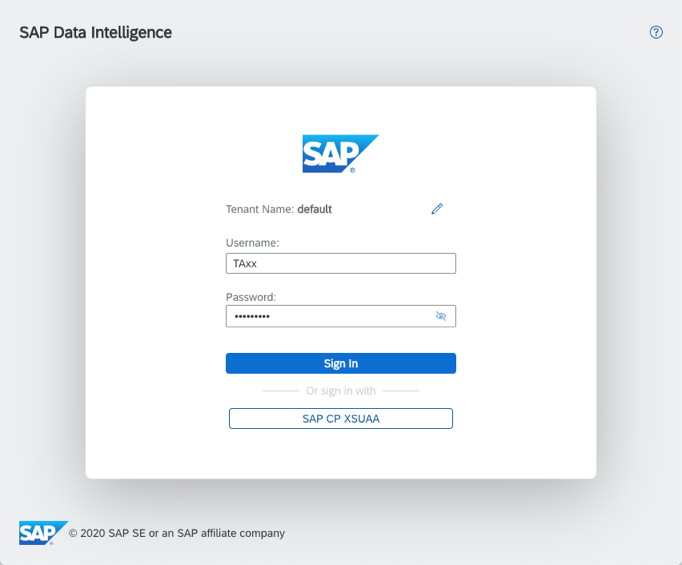
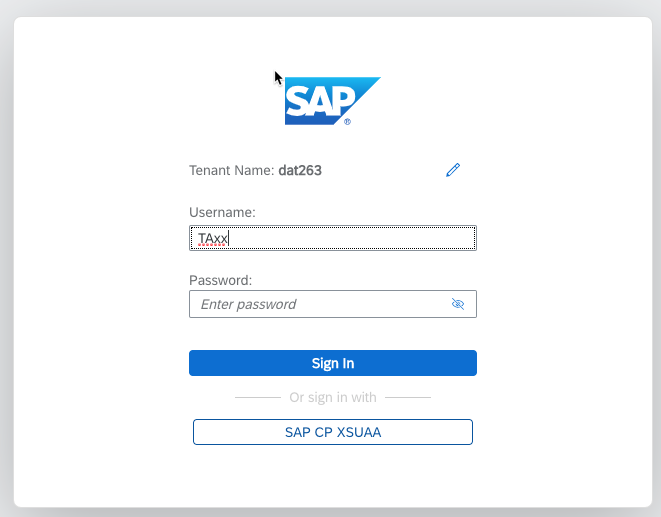
Typos, fixed table formatting in ex2,4. Updated Table of contents

diff --git a/exercises/ex5/README.md b/exercises/ex5/README.md
@@ -1,49 +1,67 @@
-# Exercise 5: Sending Device Data via RestAPI
+# Exercise 5: Sending Device Data via Rest API
 
 ## Description
-In this exercise we create a RestAPI that could be called by devices to save the performance data to a file. That could be the very beginning of the whole use case you just accomplished so far.  
+In this exercise we create a Rest API service that can be called by devices to save the performance data to a file. This could be the very beginning of the whole use case you just accomplished so far.  
 1. Devices are sending data to SAP Data Intelligence
-2. Data is stored to HANA database
+2. Data is written to the HANA database
 3. Quality assurance test verifies if the data is within the expected boundaries.
-4. All failed data are recorded to a "QMTICKET" table to rectify the data or resolve any issues with devices
+4. All failed data are recorded to a `QMTICKET` table to rectify the data or resolve any issues with devices
 5. Further analysis by a data scientist could develop more sophisticated quality checks and create and even better prediction on failed data
 
 
 ## Exercise Summary
 
-Creating a Pipeline with a web-service that can be called externally and hand over the data to an operator for further processing before calling an operator for saving the data. 
+Creating a Pipeline with a web-service that can be called externally and hand over the data to an operator for further processing before calling an operator for saving the data.
 
-In order to test the Rest-API a client application is provided that generates example data and sends it to the web-service. Of course also the "postman" application can be used or the terminal command "curl". 
+In order to test the Rest API service a client application is provided which can generate and send example data to web service. You may alternatively use the Postman application or the terminal command `curl`.
 
 ## Exercise 5.1
-Each running pipeline consumes a node in the cluster. Due to the limited size of our workshop-cluster we ask you kindly to ensure that the web-service pipeline is only running as short as possible. For testing purpose we write the web-service response to a file and then terminate the graph. 
+Each running pipeline consumes a node in the cluster. Due to the limited size of our workshop-cluster we ask you kindly to ensure that the web-service pipeline is only running as short as possible. For testing purpose we write the web-service response to a file and then terminate the graph.
 
 Creating the basic RestAPI:
 
 1. Create new Graph
-2. Add the RestAPI operator **OpenAPI Servlow** and the **Wiretap** opertorator
+2. Add the RestAPI operator **OpenAPI Servlow** and the **Wiretap** operator
 3. Configure the **OpenAPI Servlow** operator
 	1.  Base Path: 'teched2020/\<di_user\>\_performance - This defines which service the Web-server calls. (Attention: No leading '/')
-	2. One-Way: True (operator is not waiting for a response but sends immediatedly HTTP 204 back. 
+	2. One-Way: True (operator is not waiting for a response but sends immediately HTTP 204 back.
 4. Add the **Write File** operator and the **To File** converter
-5. Configure the **Write File** operator for adding the data to your "performance.csv": 
+5. Configure the **Write File** operator for adding the data to your `performance.csv`:
 	1. Connection: DI_DATA_LAKE
 	2. Path mode: "Static (from configuration)
-	3. Path: */shared/\<di_user\>/performance.csv* 
+	3. Path: */shared/\<di_user\>/performance.csv*
 	4. Mode: "Append"
-6. Add the **Workflow Terminator** to the graph. Of course if run productivly there would be no "Terminator" but run perpetually.
+6. Add the **Workflow Terminator** to the graph. Of course if run productively there would be no "Terminator" but run perpetually.
 7. Connect all operators  
-8. Save the pipeline as "taxx.DeviceRestAPI"
+8. Save the pipeline as `taxx.DeviceRestAPI`
 
 ![restapi](./images/restapi1.png)
 
+#### Test
 
-### Postman 
+1. Now you can start the pipeline
+2. When the pipeline is running send a sample HTTP POST request
+3. The received request will be saved to the target file/directory and then the pipeline should gracefully terminate
+4. Check the contents of file using Metadata Explorer.
+
+
+### HTML Test Page
+
+The easiest way to test the Rest API is using the small web application we have developed for this workshop [https://sendcelldata.cfapps.eu10.hana.ondemand.com](https://sendcelldata.cfapps.eu10.hana.ondemand.com).
+
+Be sure to use your `TAxx` credentials.
+
+![Test Page](./images/TestRestAPI.png)
+
+![Response Page](./images/ResponseTestRestAPI.png)
+
+### (Optional) Using Postman to test REST API
 #### Request URL
 
-POST and url: \<url pipeline modeler\>/openapi/service/\<di_user\>\_performance/test
 
-It is important to add a process-tag at the end, otherwise the request gets an error although the process tag is not used. 
+Substitute the URL and the user ID and send a POST request to: `https://<url pipeline modeler>/openapi/service/ta<xx>_performance/test`
+
+It is important to add a process-tag at the end, otherwise the request gets an error although the process tag is not used.
 
 #### Request Header
 In the "Headers"-tab add the parameter: X-Requested-With - XMLHttpRequest. Without this parameter you get the error: "Forbidden cross-site request"
@@ -52,51 +70,32 @@ In the "Headers"-tab add the parameter: X-Requested-With - XMLHttpRequest. Witho
 
 #### Authorization
 1. Change the authorization TYPE: Basic Auth
-2. Enter your credentials while adding before your user the tenant name 'default' separated with a backslash '\'.
+2. The username must be prefixed with the tenant ID followed by a backslash e.g. `dat263\taXX`
 
 ![postman3](./images/postman3.png)
 
 #### Request Body
 
-In the body you can add the actual data that should be posted. Here we can add already a JSON that contains the data of the device: 
+In the body you can add the actual data that should be posted. Here we can add already a JSON that contains the data of the device:
 
-{"TIMESTAMP":"2020-10-19 20:06:55","CELLID":1234512,"KEY1":111.1,"KEY2":222.2}
+`{"TIMESTAMP":"2020-10-19 20:06:55","CELLID":1234512,"KEY1":111.1,"KEY2":222.2}`
 
 ![postman2](./images/postman2.png)
 
-#### Test 
-
-1. Now you can start the pipeline
-2. When the pipeline is running send the postman request by pushing the "Send" button. 
-3. The received request is saved to the specified file and the pipeline terminates
-4. Check the file. 
 
 
 ### Python client
 
-If you have a python-egine installed on your local system then you could also use the script that you have downloaded from this GitHub repository together with the Jupyter Notebook: [scripts.zip](../../scripts.zip).
+If you have a python-engine installed on your local system then you could also use the script that you have downloaded from this GitHub repository together with the Jupyter Notebook: [scripts.zip](../../scripts.zip).
 
 First you have to ensure that the url in the script is the right one. Open the script with a text editor and verify and adjust the url described in the section Postman/Request URL.
 
-Start the RestAPI pipeline and wenn running then start the script in a terminal with: 
+Start the RestAPI pipeline and when running then start the script in a terminal with:
 
 ```
 python3 ./celldata.py --cellid 1234512 --user <di_user> --pwd <password>
 ```
 
-### HTML Test Page
-
-The easiest way to test the RestAPI is using the page we created to test the restapi [Test Page (sendcelldata.cfapps.eu10.hana.ondemand.com)]
-(sendcelldata.cfapps.eu10.hana.ondemand.com).
-
-![Test Page](./images/TestRestAPI.png)
-
-![Response Page](./images/ResponseTestRestAPI.png)
-
-
-
 ## Summary
 
-You have learnt how to setup a RestAPI and sending data to it. 
-
-
+In this final exercise you have learnt how to setup and send data -- using various HTTP clients -- to a Rest API web service hosted inside SAP Data Intelligence.

diff --git a/exercises/ex4/README.md b/exercises/ex4/README.md
@@ -6,15 +6,15 @@ In order to understand better the data you receive from the devices and develop 
 ## Exercise
 
 1. Go the **Launchpad** of SAP Data Intelligence and start the **ML Scenario Manager**.
-2. This is the data scientist environment to manage data, Jupyter notbooks, models and pipelines. Create a new Scenario by clicking on the **Create** Button on the top left corner and name it `TAxx_QM_Analysis` where xx is your assigned user ID
+2. This is the data scientist environment to manage data, Jupyter notebooks, models and pipelines. Create a new Scenario by clicking on the **Create** Button on the top left corner and name it `TAxx_QM_Analysis` where xx is your assigned user ID
 ![Create Scenario](./images/createscenario.png)
 
 3. You will be taken to the **Scenario Details** page. Scroll down to the *Notebooks* section and create a new notebook ![Create Scenario](./images/createjn.png).
 
-4. Download the [scripts.zip](../../scripts.zip) file. There is a Jupyter Notbook that you can upload: `qm_analysis_cellstatus.ipynb` ![upload](./images/uploadjn.png)
+4. Download the [scripts.zip](../../scripts.zip) file. There is a Jupyter Notebook that you can upload: `qm_analysis_cellstatus.ipynb` ![upload](./images/uploadjn.png)
 5. Before you run the Jupyter notebook you have to change the connection to direct to your table. Go to the cell where the connection is defined and change the table-name to `<TECHED_USER>_CELLSTATUS`. ![connect_change](./images/connect_change.png)
 5. Now you can run the whole Jupyter notebook cell by cell by clicking on the run-button on the icon-bar. ![run_cell](./images/run_cells_jnb.png)
-6. At the end of this jupyter notebook you find blank cells where you can either do your on research or use our code proposols. This proposals you can cut and paste to the corresponding cells. 
+6. At the end of this Jupyter notebook you find blank cells where you can either do your own analysis or use our proposed code snippets. You can copy and paste these code snippets to the corresponding cells.
 
 
 #### KEY1 for all Cells
@@ -22,7 +22,7 @@ In order to understand better the data you receive from the devices and develop 
 mean = df['KEY1'].mean()
 std = df['KEY1'].std()
 print('Statistics:\n\tav: {}\n\tsd: {}'.format(mean,std))
-exl_3s = df.loc[ (df.KEY1 < mean - 3*std) | (df.KEY1 > mean + 3*std),'KEY1'].count() 
+exl_3s = df.loc[ (df.KEY1 < mean - 3*std) | (df.KEY1 > mean + 3*std),'KEY1'].count()
 print('Z3-score: \n\tactual #values: {}\n\ttarget #values: {}'.format(exl_3s,round(0.0027*df.shape[0])))
 ```
 
@@ -31,16 +31,16 @@ print('Z3-score: \n\tactual #values: {}\n\ttarget #values: {}'.format(exl_3s,rou
 mean2 = df['KEY2'].mean()
 std2 = df['KEY2'].std()
 print('Statistics:\n\tav: {}\n\tsd: {}'.format(mean2,std2))
-exl_3s = df.loc[ (df.KEY2 < mean2 - 3*std2) | (df.KEY2 > mean2 + 3*std2),'KEY2'].count() 
+exl_3s = df.loc[ (df.KEY2 < mean2 - 3*std2) | (df.KEY2 > mean2 + 3*std2),'KEY2'].count()
 print('Z3-score: \n\tactual #values: {}\n\ttarget #values: {}'.format(exl_3s,round(0.0027*df.shape[0])))
 ```
 
 ####  For Each Cell of KEY2
 ```
 cells = df.CELLID.unique()
-for c in cells: 
+for c in cells:
     dfc = df.loc[df.CELLID == c]
-    exl_3s = df.loc[(df.CELLID == c) & ((df.KEY2 < mean2 - 3*std2) | (df.KEY2 > mean2 + 3*std2)),'KEY2'].count() 
+    exl_3s = df.loc[(df.CELLID == c) & ((df.KEY2 < mean2 - 3*std2) | (df.KEY2 > mean2 + 3*std2)),'KEY2'].count()
     print('Z3-score {}: \n\tactual #values: {}\n\ttarget #values: {}'.format(c,exl_3s,round(0.0027*dfc.shape[0])))
 ```
 
@@ -52,16 +52,15 @@ display(dfc)
 ```
 
 #### Access Data on DI Data Lake
-If you want to access the csv-files you have created from the Jupyter Notebook you currently have to store them first in the `DI_DATA_LAKE`.
+To access the csv-files you have created from the Jupyter Notebook you currently have to store them first in the `DI_DATA_LAKE` connection.
 
-Remark: This might be changed in the next releases so you can access more connections of the Connection Management.  
+ To do this you can either:
+1. Use the download and upload feature of the Metadata Explorer or
+2. Change the target of your pipeline that you have created in Exercise 2
 
- For this you can 
+*Remark: This might be changed in the next releases so you can access more connections of the Connection Management.*  
 
-1. use the download and upload feature of the Metadata Explorer or 
-2. change the target of your pipline that you have created in Exercise 2
-
-The code could then look like the following: 
+The code in Jupyter notebook could then look like the following:
 
 ```
 client = InsecureClient('http://datalake:50070')
@@ -72,6 +71,6 @@ display(df_p)
 
 ## Summary
 
-In this exercise you have learnt how to create a ML Scenario and a Jupyter Notebook, connect to a HANA database via the SAP Data Intelligence Connection and do some data analysis. You also can read data for the *DI_DATA_LAKE* storage. 
+In this exercise you have learnt how to create a ML Scenario and a Jupyter Notebook, connect to a HANA database via the SAP Data Intelligence Connection and do some data analysis. You also can read data for the *DI_DATA_LAKE* storage.
 
-[Exercise 5](../ex5/README.md)
+Continue to [Exercise 5: Sending Device Data via RestAPI](../ex5/README.md)

diff --git a/exercises/ex3/README.md b/exercises/ex3/README.md
@@ -26,7 +26,7 @@ If you like to try it first by your own then here is the short summary of the ta
 		("TIMESTAMP","STATUS","COMMENT","DATE","CELLID","NOM_KEY1","NOM_KEY2","KEY1","KEY2","ERROR_ACTION","ERROR_COLUMNS","ROW_ID")
 4. Save the "service ticket" string to the HANA table `QMTICKET`
 
-Hint: Depending on the HANA DB operator you might have the header passed as well. This you have to consider both with the "Validation"-Rule operator and with the script of the "Python3 Operator". For the latter we added a commented row that would rename the columns if the data provided with a header for complying with the following process steps. 
+Hint: Depending on the HANA DB operator you might have the header passed as well. This you have to consider both with the "Validation"-Rule operator and with the script of the "Python3 Operator". For the latter we added a commented row that would rename the columns if the data provided with a header for complying with the following process steps.
 
 ## Exercise 3.1
 
@@ -56,24 +56,24 @@ Hint: Depending on the HANA DB operator you might have the header passed as well
 2. Configure the **Input Schema**: Click on *Edit*
 	- In the new configuration window "Edit property 'Input Schema'
 	- Add for each table column an item:
-	|Name|Type|
-	|----|----|
-	|DATE|String (Length 10)|
-	|CELLID|Integer|
-	|NOM_KEY1|Number|
-	|NOM_KEY2|Number|
-	|KEY1|Number|
-	|KEY2|Number|
+	|Name    |Type              |
+	|--------|------------------|
+	|DATE    |String (Length 10)|
+	|CELLID  |Integer           |
+	|NOM_KEY1|Number            |
+	|NOM_KEY2|Number            |
+	|KEY1    |Number            |
+	|KEY2    |Number            |
 
 	![configvrschema](./images/Configvrschema.png)
 3. Return to the operator's configuration menu and edit **Rules**:
 	- Add the following rule :
-	|Column|Condition|Value|Fail Action|
-	|------|---------|-----|-----------|
-	|KEY1  |<        |130    |FAIL     |
-	|KEY1  |>        |70     |FAIL     |
+	|Column|Condition|Value  |Fail Action|
+	|------|---------|-------|-----------|
+	|KEY1  |<        |130    |FAIL       |
+	|KEY1  |>        |70     |FAIL       |
 
-	
+
 	This might look a bit counter-intuitive but it actually means all values > 130 and < 70 fail.
 
 	![configvrrules](./images/Configvrrules.png)
@@ -118,8 +118,8 @@ api.set_port_callback("failed", on_input)
 
 ```
 
-The basic idea of this script is to store the csv records ,which are coming from the `fail` outport of the `Validation Rule` operator, as an pandas DataFrame. Then we add some additional columns and values to this DataFrame, convert it back into a csv-format and send it to the outport `ticket`. 
-You could add in the ``df[comment] = 'TAxx'`` your user-name to better find your QM tickets. 
+The basic idea of this script is to store the csv records ,which are coming from the `fail` outport of the `Validation Rule` operator, as an pandas DataFrame. Then we add some additional columns and values to this DataFrame, convert it back into a csv-format and send it to the outport `ticket`.
+You could add in the ``df[comment] = 'TAxx'`` your user-name to better find your QM tickets.
 5. Add a new `Wiretap` operator to the canvas and connect it to the "Python3 Operator" outport.
 6. Save and run the pipeline and check if the output is what you expected.
 
@@ -139,4 +139,4 @@ You could add in the ``df[comment] = 'TAxx'`` your user-name to better find your
 
 You have learnt an alternative way to read and write to a HANA database as with the `Structured Data` operators of the previous exercise. We used the "Validation Rule" operator to do simple data quality checks and finally how to use a python custom operator to leverage all the options provided by an advanced script.
 
-Continue to - [Exercise 4](../ex4/README.md)
+Continue to [Exercise 4: Analyse the Data with Jupyter Notebook](../ex4/README.md)

diff --git a/exercises/ex2/README.md b/exercises/ex2/README.md
@@ -96,7 +96,7 @@ This operator is doing the core part of the whole pipeline.
 	|C1    |DATE  | date   |
   |C2    |CELLID| int32  |
 	|C3    |KEY1  | float32|
-	|C4    |KEY2 | float32|
+	|C4    |KEY2  | float32|
 
 6. Return to the modeling view by clicking on the **<** icon in the top-left corner  of the pipeline canvas. ![Structured Data Operators](./images/BackClickDataTransform.png)
 7. We can now perform an aggregation, similar to that of a SQL Group By, such that that we will get one distinct record for each day and device (="CELLID"). Add an `Aggregation` operator and connect it to the `Projection` operator.
@@ -126,7 +126,8 @@ This operator is doing the core part of the whole pipeline.
 
 			"CELLID" = 1234512 AND "DATE" = '2020-11-01'
 	 ![Structured Data Operators](./images/datafilter.png)
-12. Return to to `Data Transform` modeling perspective and right-click on the outport of the last `Projection` operator and select `Create Data target`.  ![Structured Data Operators](./images/createdatatarget.png).
+12. Return to the `Data Transform` modeling perspective and right-click on the outport of the last `Projection` operator and select `Create Data target`.
+ ![Structured Data Operators](./images/createdatatarget.png).
 12. By clicking on the **auto-layout** you can rearrange your pipeline
 13. Open the **Configuration** menu of the `output` operator. Under the **General** section you can verify the outgoing columns of the `Transform` operator. ![Structured Data Operators](./images/transformoutput1.png).
 
@@ -178,11 +179,11 @@ Double click the `Data Transform` operator to open it. You will then see a secon
 	1. **Automap** the source columns to target columns
 	2. Change the names and the data types of the target columns as follows:
 		|Source|Target|DataType|
-		|------|------|--------|
-		|C1    |DATE  |date    |
-		|C2    |CELLID|int32   |
-		|C3    |NOM_KEY1|float32|
-		|C4    |NOM_KEY2|float32|
+		|--|--------|-------|
+		|C1|DATE    |date   |
+		|C2|CELLID  |int32  |
+		|C3|NOM_KEY1|float32|
+		|C4|NOM_KEY2|float32|
 
 3. Add a `Join` operator and connect the new `Projection2` operator to the top `inport` of the `Join` operator
 4. Remove the connection from the `Aggregation` output operator to the `Projection1` operator by clicking on the connection to mark it and then right-click to remove it. ![remove connections](./images/removeconnection.png)
@@ -213,4 +214,4 @@ Again you should see only one record if you chose to apply the the filter but th
 
 You've now actually created a rather complex data transformation from two different data sources, with joins, aggregation and filtering and storing it to a different type of storage.
 
-Continue to - [Exercise 3 - Exercise 3 Description](../ex3/README.md)
+Continue to [Exercise 3: Validating Data Quality](../ex3/README.md)

diff --git a/README.md b/README.md
@@ -28,8 +28,8 @@ After having done all the tasks you are familiar with the general concept of **S
 
 ## Requirements
 
-  * Login credentials to SAP Data Intelligence ([Registration page: https://register.cfapps.eu10.hana.ondemand.com](https://register.cfapps.eu10.hana.ondemand.com)). Please select one of the workshops: 
-  	* DAT263\_1 (1.30 am UTC) or 
+  * Login credentials to SAP Data Intelligence ([Registration page: https://register.cfapps.eu10.hana.ondemand.com](https://register.cfapps.eu10.hana.ondemand.com)). Please select one of the workshops:
+  	* DAT263\_1 (1.30 am UTC) or
   	* DAT263\_2 (1.30 pm UTC)
   * Chrome browser (Recommended)
 
@@ -38,10 +38,7 @@ After having done all the tasks you are familiar with the general concept of **S
 
 - [Getting Started](exercises/gettingstarted/)
 - [Exercise 1 - Appending multiple source files to a single file](exercises/ex1/)
-    - [Part 1: Preview the source data in Metadata Explorer](exercises/ex1#Part-1-Preview-the-source-data-in-Metadata-Explorer)
-    - [Part 2: Building the pipeline](exercises/ex1#Part-2-Building-the-pipeline)
-    - [Part 3: Executing the pipeline](exercises/ex1#Part-3-Executing-the-pipeline)
-- [Exercise 2: Joining and writing workflow data to SAP HANA](exercises/ex2/)
+- [Exercise 2 - Joining and writing workflow data to SAP HANA](exercises/ex2/)
 - [Exercise 3 - Running a simple data validation](exercises/ex3/)
 - [Exercise 4 - Analyse data with Jupyter Notebook](exercises/ex4/)
 - [Exercise 5 - Create a RestAPI receiving data from devices (simulation)](exercises/ex5/)

diff --git a/exercises/gettingstarted/README.md b/exercises/gettingstarted/README.md
@@ -2,13 +2,16 @@
 
 ## Logging on to SAP Data Intelligence
 
-You will assigned a number at the beginning of the workshop
+Obtain a unique user ID at the SAP Data Intelligence workshop registration page: https://register.cfapps.eu10.hana.ondemand.com
+* Please do not create more than one user!
+* If you forget your credentials let us know
 
-  Tenant: `default`<br>
+
+  Tenant: `dat263`<br>
   Username: `TAxx` where xx is your assigned number<br>
-  Password: `Welcome01`<br>
+  Password: `<your_assigned_password>`<br>
 
-  Logon URL: `https://<hyperlink_goes_here>`
+  Logon URL: [https://vsystem.ingress.dh-6srbrjhsl.dh-canary.shoot.live.k8s-hana.ondemand.com/login/?tenant=dat263](https://vsystem.ingress.dh-6srbrjhsl.dh-canary.shoot.live.k8s-hana.ondemand.com/login/?tenant=dat263)
 
   ![](./images/login.png)
 
